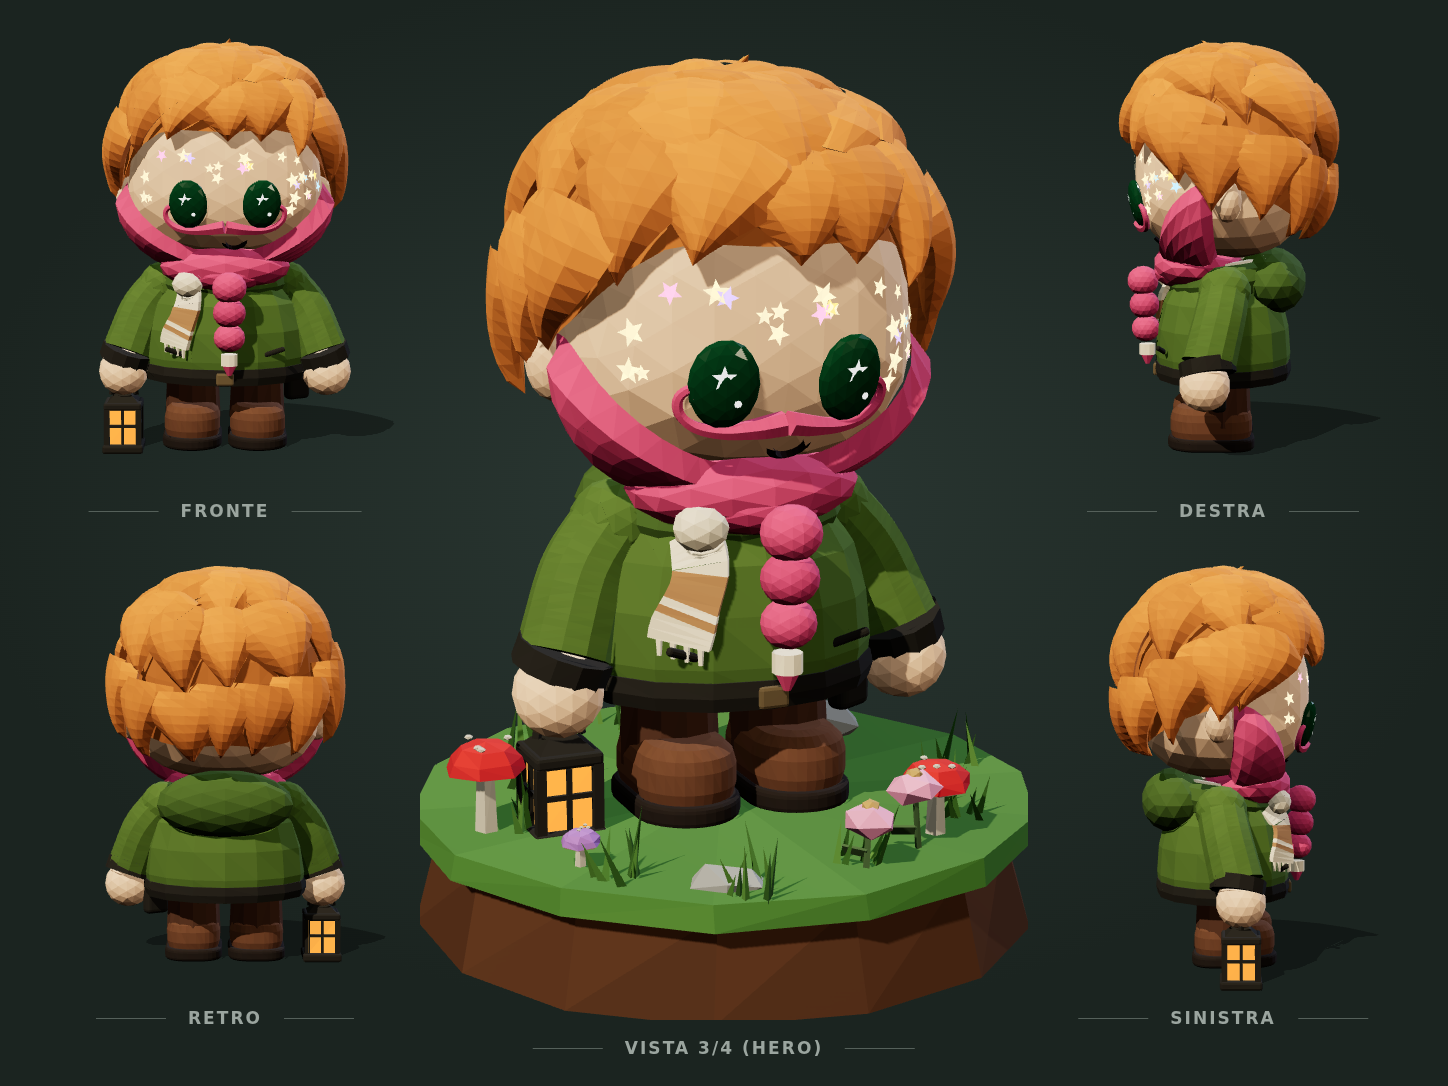
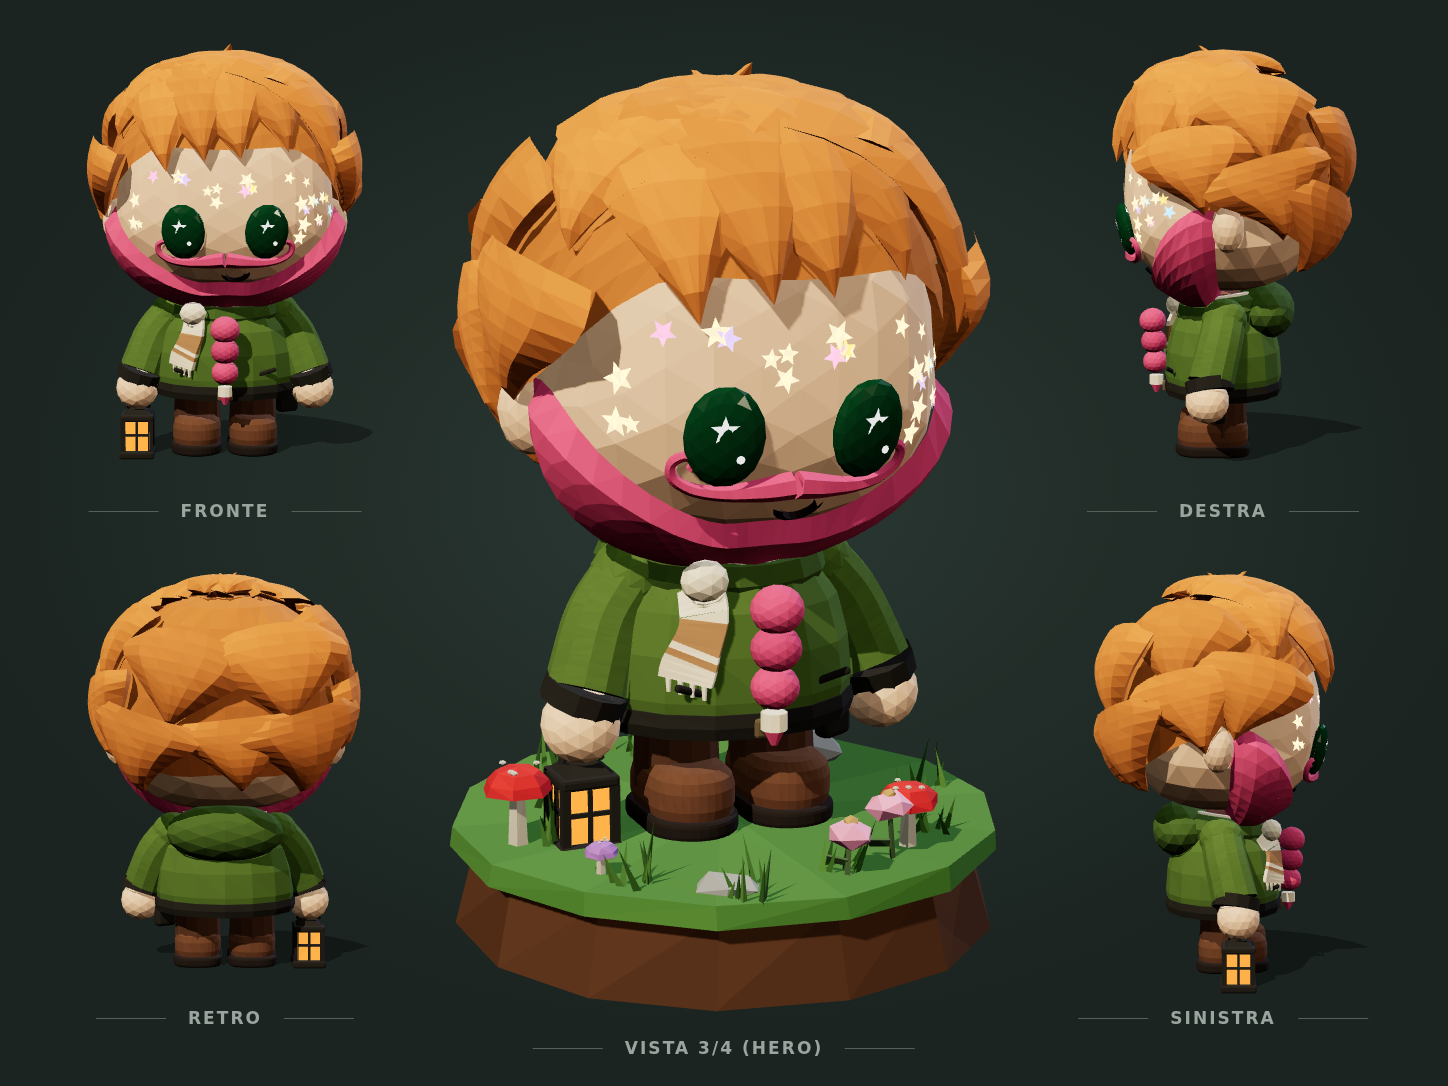
Style prototype v2, seventh pass: bigger head, one-piece beard, few messy locks
- head (with face, beard, moustache, hair) 30% bigger, scaled around the
  chin so it still rests on the collar
- beard as one continuous shell grown from the skin: crisp top edge, wraps
  cheeks and jaw, thickens forward and down under the chin, closed by a wall
  towards the neck (no stuck-on ellipsoids)
- hair: few big messy locks like the concept (fringe of five, two rings of
  short locks bending each its own way, crown locks opening from the whorl),
  same coverage as before
- braid hangs in front of the jacket right under the beard
- audit updated

Claude-Session: https://claude.ai/code/session_01U6u5RojYrwYjZd8sSRU7em

diff --git a/Prototype-3d/src/proto/custodeV2.ts b/Prototype-3d/src/proto/custodeV2.ts
@@ -35,6 +35,11 @@ function prng(seed: number) {
 }
 const O: LPOpts = { jitter: 0, vary: 0.04, ao: 0 };
 
+/** Scala della testa e traslazione che tiene fermo il mento (y ≈ 0,543). */
+const HEAD_S = 1.3;
+const CHIN_Y = 0.543;
+const HEAD_T = new THREE.Vector3(0, CHIN_Y - HEAD_S * CHIN_Y, 0);
+
 // ── Testa ───────────────────────────────────────────────────────────────
 // Non una sfera: un "superellissoide" (più pieno di una sfera, con la faccia
 // più piatta davanti) che si allarga un po' in basso sulle guance, come nel
@@ -234,35 +239,57 @@ function glitter(lp: LP) {
   }
 }
 
+/**
+ * Barba come un unico guscio continuo (niente forme appiccicate): parte dalla
+ * pelle con un bordo superiore netto (dalla bocca a davanti all'orecchio),
+ * avvolge guance e mandibola e sotto il mento si ispessisce spingendo in
+ * avanti e in basso. Superficie esterna + parete inferiore che la chiude.
+ */
 function beard(lp: LP) {
-  // come nel concept: un volume pieno a mezzaluna attorno alla parte bassa
-  // della faccia. Bordo superiore netto (sale dalla bocca fino davanti
-  // all'orecchio), spessore quasi costante, e sotto il mento una massa che
-  // sporge in avanti e in basso, oltre il profilo della testa.
-  sheet(lp, 30, 10,
-    (u, v) => [u * 84 * DEG, lerp(-88, beardTop(u * 84), v) * DEG],
-    (u, v) => {
-      const side = smooth(0, 0.1, 1 - Math.abs(u));
-      const top = smooth(0, 0.07, 1 - v); // bordo superiore netto
-      return side * top * (0.036 + 0.014 * (1 - v));
-    }, BEARD, { vary: 0.05 });
-  // massa del mento: ellissoide schiacciato che riempie sotto la mandibola
-  const { p: chin } = headAt(0, -62 * DEG);
-  lp.blob(0, chin.y - 0.035, chin.z - 0.05, 0.19, 0.075, 0.13, BEARD, { ...O, detail: 2 } as LPOpts);
-  lp.blob(0, chin.y - 0.06, chin.z - 0.02, 0.12, 0.05, 0.1, '#c94f75', { ...O, detail: 2 } as LPOpts);
-  // treccia: tre grani uguali, impilati dritti sotto il mento, un fermaglio
-  // color panna e una punta: semplice e leggibile come nel concept
-  // davanti alla giacca (prima restava dietro il nodo della sciarpa)
-  const top = new THREE.Vector3(0.012, chin.y - 0.085, 0.235);
+  const NU = 30, NV = 12;
+  const outer: THREE.Vector3[][] = [], inner: THREE.Vector3[][] = [], norms: THREE.Vector3[][] = [];
+  for (let i = 0; i <= NU; i++) {
+    outer.push([]); inner.push([]); norms.push([]);
+    const u = -1 + (2 * i) / NU, th = u * 86;
+    for (let j = 0; j <= NV; j++) {
+      const v = j / NV; // 0 sotto il mento, 1 bordo superiore
+      const { p, n } = headAt(th * DEG, lerp(-84, beardTop(th), v) * DEG);
+      const side = smooth(0, 0.12, 1 - Math.abs(u));
+      const center = 0.35 + 0.65 * Math.pow(1 - Math.abs(u), 1.4);
+      const low = Math.pow(1 - v, 2);
+      const t = side * smooth(0, 0.06, 1 - v) * (0.03 + 0.075 * low * center);
+      // sotto il mento la massa va anche in avanti, non solo lungo la normale
+      const dir = n.clone().add(new THREE.Vector3(0, -0.15, 0.55).multiplyScalar(low * center)).normalize();
+      inner[i].push(p.clone());
+      outer[i].push(p.clone().addScaledVector(dir, t));
+      norms[i].push(n);
+    }
+  }
+  const tr = new Tris();
+  for (let i = 0; i < NU; i++) for (let j = 0; j < NV; j++) tr.quad(outer[i][j], outer[i + 1][j], outer[i + 1][j + 1], outer[i][j + 1], norms[i][j]);
+  // parete inferiore: chiude il guscio tornando alla pelle sotto il mento
+  for (let i = 0; i < NU; i++) tr.quad(outer[i][0], outer[i + 1][0], inner[i + 1][0], inner[i][0], new THREE.Vector3(0, -1, 0.2));
+  lp.add(tr.geo(), BEARD, { ...O, vary: 0.05 });
+}
+
+/** Punto (coordinate della testa, prima della scala) da cui pende la treccia. */
+function braidAnchor(): THREE.Vector3 {
+  const { p, n } = headAt(0, -80 * DEG);
+  return p.addScaledVector(n, 0.07).add(new THREE.Vector3(0, -0.01, 0.06));
+}
+
+/** Treccia: tre grani uguali impilati, fermaglio color panna e punta. */
+function braid(lp: LP, top: THREE.Vector3) {
   const R0 = 0.046, STEPY = 0.07;
   for (let i = 0; i < 3; i++) {
     const r = R0 - i * 0.002;
-    lp.blob(top.x, top.y - i * STEPY, top.z - i * 0.004, r * 1.05, r * 0.95, r, i % 2 ? '#c94f75' : BEARD, { ...O, detail: 2 } as LPOpts);
+    lp.blob(top.x, top.y - 0.03 - i * STEPY, top.z - i * 0.004, r * 1.05, r * 0.95, r, i % 2 ? '#c94f75' : BEARD, { ...O, detail: 2 } as LPOpts);
   }
-  const ty = top.y - 3 * STEPY + 0.022, tz = top.z - 3 * 0.004;
+  const ty = top.y - 0.03 - 3 * STEPY + 0.022, tz = top.z - 3 * 0.004;
   lp.cyl(top.x, ty - 0.03, tz, 0.024, 0.024, 0.032, 10, SCARF, O);
   lp.cyl(top.x, ty - 0.058, tz, 0.006, 0.02, 0.028, 8, BEARD, O);
 }
+
 
 function moustache(lp: LP) {
   // grosso manubrio: dal centro sotto il naso fin oltre gli occhi, poi un ricciolo all'insù
@@ -271,7 +298,7 @@ function moustache(lp: LP) {
     [0.004, 0.626, 0.022], [0.06, 0.617, 0.02], [0.12, 0.612, 0.016], [0.168, 0.622, 0.013], [0.196, 0.646, 0.011],
     [0.2, 0.674, 0.0095], [0.182, 0.689, 0.0088], [0.165, 0.677, 0.008], [0.172, 0.660, 0.0075],
   ];
-  const path = raw.map(([x, y, r]) => [x * 0.8, 0.651 + (y - 0.626) * 0.8, r * 0.9] as [number, number, number]);
+  const path = raw.map(([x, y, r]) => [x * 0.8, 0.645 + (y - 0.626) * 0.62, r * 0.85] as [number, number, number]); // ricciolo più basso: non gira attorno all'occhio
   for (const s of [-1, 1]) {
     const pts = path.map(([x, y, r]) => { const at = headFront(s * x, y); return at.p.addScaledVector(at.n, r * 0.85); });
     lp.add(taperTube(pts, path.map(([, , r]) => r)), BEARD, { ...O, vary: 0.03 });
@@ -292,28 +319,38 @@ function hair(lp: LP) {
   sheet(lp, 36, 10, (u, v) => { const th = Math.PI + u * Math.PI; return [th, lerp(hairTip(th) + 3, 89.5, v) * DEG]; }, (u, v) => {
     const th = Math.PI + u * Math.PI;
     return capT(th, lerp(hairTip(th) + 3, 89.5, v));
-  }, tone(-0.11)); // più scura: tra una ciocca e l'altra si legge il solco
-  // quattro file a scaglie come prima; le ciocche hanno però una lunghezza
-  // massima, così dietro e ai lati non pendono più (prima arrivavano a 80°)
-  const back = (th: number) => smooth(50, 160, absDeg(th * DEG));
-  const MAXLEN = 40;
-  const rows = [
-    { n: 16, root: 46, tip: (th: number) => hairTip(th * DEG) - 2, w: 0.15 },
-    { n: 13, root: 62, tip: (th: number) => lerp(36, 4, back(th)), w: 0.16 },
-    { n: 10, root: 76, tip: (th: number) => lerp(54, 34, back(th)), w: 0.16 },
-    { n: 6, root: 88, tip: () => 68, w: 0.15 },
-  ];
-  rows.forEach((row, r) => {
-    for (let k = 0; k < row.n; k++) {
-      const th0 = (k + (r % 2) * 0.5) * (360 / row.n) + (rnd() - 0.5) * 8;
-      const tip = row.tip(th0) - rnd() * 6;
+  }, tone(-0.07)); // appena più scura: tra una ciocca e l'altra si legge il solco
+  // poche ciocche grandi e scompigliate (come nel concept): una frangia, due
+  // giri attorno (lati e nuca) con ciocche corte che arrivano dove serve, e
+  // qualche ciuffo in cima che punta in direzioni diverse
+  const surf = (th: number, ph: number) => capT(th * DEG, ph) * 0.78;
+  const LEN = 38;
+  const ring = (n: number, tipOf: (th: number) => number, w: number, phase: number, seed: number) => {
+    for (let k = 0; k < n; k++) {
+      const th0 = (k + phase) * (360 / n) + (rnd() - 0.5) * 14;
+      const front = absDeg(th0 * DEG) < 50;
+      if (front && seed === 0) continue; // davanti c'è la frangia
+      const tip = tipOf(th0) - rnd() * 7;
+      const swing = (rnd() - 0.5) * 22; // scompigliate: ognuna piega per conto suo
       lock(lp, {
-        th0, th1: th0 + (r % 2 ? 9 : -4) + (rnd() - 0.5) * 14, ph0: Math.min(row.root + (rnd() - 0.5) * 6, tip + MAXLEN), ph1: tip,
-        w: row.w * (0.8 + rnd() * 0.45), t: 0.058 + rnd() * 0.012, surface: (th: number, ph: number) => capT(th * DEG, ph) * 0.78, bulge: 0.018, lift: 0.01 + rnd() * 0.022,
-        col: tone([0.03, -0.02, 0.05, 0.01, -0.035][(k + r) % 5]),
+        th0, th1: th0 + swing, ph0: Math.min(92, tip + LEN + (rnd() - 0.5) * 8), ph1: tip,
+        w: w * (0.85 + rnd() * 0.3), t: 0.058 + rnd() * 0.012, surface: surf, bulge: 0.014, lift: 0.008 + rnd() * 0.018,
+        col: tone([0.03, -0.025, 0.05, 0.005, -0.04][(k + seed) % 5]),
       });
     }
-  });
+  };
+  ring(10, (th) => hairTip(th * DEG) - 2, 0.21, 0, 0);            // giro basso: lati e nuca
+  ring(8, (th) => hairTip(th * DEG) + 30, 0.22, 0.5, 1);         // giro alto
+  // frangia: cinque ciocche grandi che cadono sulla fronte, un po' di traverso
+  for (let k = 0; k < 5; k++) {
+    const th0 = -50 + k * 25 + (rnd() - 0.5) * 8;
+    lock(lp, { th0, th1: th0 + 10 + (rnd() - 0.5) * 16, ph0: 82, ph1: hairTip(th0 * DEG) - rnd() * 6, w: 0.22 * (0.9 + rnd() * 0.2), t: 0.058, surface: surf, bulge: 0.016, lift: 0.012 + rnd() * 0.016, col: tone([0.04, -0.01, 0.025, -0.03, 0.015][k]) });
+  }
+  // cima: ciocche che si aprono dal vortice in direzioni diverse
+  for (let k = 0; k < 7; k++) {
+    const th0 = k * 51 + (rnd() - 0.5) * 24;
+    lock(lp, { th0, th1: th0 + (rnd() - 0.5) * 40, ph0: 92, ph1: 62 - rnd() * 8, w: 0.2, t: 0.058, surface: surf, bulge: 0.016, lift: 0.02 + rnd() * 0.02, col: tone([0.045, 0.01, 0.03, -0.015, 0.02][k % 5]) });
+  }
   // ciuffetti dritti in cima, radicati nella calotta
   [[-20, 104], [10, 110], [35, 100], [190, 102]].forEach(([th, ph1], k) => {
     lock(lp, { th0: th, th1: th + 4, ph0: 84, ph1, w: 0.085, t: 0.03, base: 0.05, lift: 0.05 + k * 0.01, bulge: 0.008, col: tone(k % 2 ? 0.045 : 0.02) });
@@ -498,12 +535,23 @@ export interface CustodeV2 { root: THREE.Group; diorama: THREE.Group; lights: Ar
 
 export function buildCustodeV2(): CustodeV2 {
   const char = model((lp) => {
-    head(lp); glitter(lp); beard(lp); moustache(lp); hair(lp); body(lp); arm(lp, -1); arm(lp, 1);
+    // testa (con faccia, barba, baffi e capelli) più grande del 30%, scalata
+    // attorno al mento: resta appoggiata sul colletto
+    lp.push([0, HEAD_T.y, 0], 0, 0, 0, HEAD_S);
+    head(lp); glitter(lp); beard(lp); moustache(lp); hair(lp);
+    lp.pop();
+    // la treccia pende davanti alla giacca (prima finiva dietro il nodo della sciarpa)
+    const ba = braidAnchor().multiplyScalar(HEAD_S).add(HEAD_T);
+    braid(lp, ba.setZ(Math.max(ba.z, 0.24)).setY(ba.y + 0.025)); // attaccata subito sotto la barba
+    body(lp); arm(lp, -1); arm(lp, 1);
     lantern(lp, -0.296);
   }, 'proto:custode-v2');
   const root = new THREE.Group();
   root.add(instantiate(char, { castShadow: true }));
-  root.add(eyes());
+  const eyeGroup = eyes();
+  eyeGroup.scale.setScalar(HEAD_S);
+  eyeGroup.position.copy(HEAD_T);
+  root.add(eyeGroup);
   root.traverse((o) => { if (o instanceof THREE.Mesh) { o.castShadow = true; o.receiveShadow = true; } });
   const d = model(diorama, 'proto:zolla');
   const dio = instantiate(d, { castShadow: true });

diff --git a/Prototype-3d/src/proto/turnaround.ts b/Prototype-3d/src/proto/turnaround.ts
@@ -85,12 +85,12 @@ for (const p of panels) {
   camera.aspect = p.w / p.h;
   if (p.hero) {
     camera.fov = 26;
-    camera.position.set(0.1, 1.15, 3.4);
-    camera.lookAt(0, 0.46, 0);
+    camera.position.set(0.1, 1.3, 3.9);
+    camera.lookAt(0, 0.56, 0);
   } else {
     camera.fov = 22;
-    camera.position.set(0, 0.8, 3.55);
-    camera.lookAt(0, 0.55, 0);
+    camera.position.set(0, 0.95, 4.1);
+    camera.lookAt(0, 0.66, 0);
   }
   camera.updateProjectionMatrix();
   const vy = H - (p.y + p.h);

diff --git a/Prototype-3d/docs/audit-stile-custode-v2.md b/Prototype-3d/docs/audit-stile-custode-v2.md
@@ -58,6 +58,12 @@ Sesta passata:
 - **Stivali:** tomaia e suola hanno la stessa pianta e la tomaia nasce dentro la suola, così il bordo è continuo e la suola non sembra staccata.
 - **Sciarpa:** spostata di lato, per lasciare libera la treccia.
 
+Settima passata (cambio di metodo: meno forme sovrapposte):
+- **Testa:** più grande del 30% (con faccia, barba, baffi e capelli), scalata attorno al mento, così resta appoggiata sul colletto.
+- **Barba:** un unico guscio continuo che nasce dalla pelle, con il bordo superiore netto. Avvolge guance e mandibola e sotto il mento si ispessisce in avanti e in basso, chiuso da una parete verso il collo. Niente più ellissoidi appiccicati.
+- **Capelli:** poche ciocche grandi e scompigliate, come nel concept: una frangia di cinque, due giri attorno (lati e nuca) con ciocche corte che piegano ognuna per conto suo, e sette ciocche in cima che si aprono dal vortice. La copertura arriva allo stesso punto di prima.
+- **Treccia:** pende davanti alla giacca, subito sotto la barba.
+
 ## Prestazioni su telefono (app Capacitor)
 
 Con Capacitor il gioco gira nel WebView del sistema (WKWebView su iOS, WebView di Chrome su Android): le prestazioni sono quelle del browser del telefono. Che il gioco funzioni offline non cambia nulla, perché il lavoro lo fanno GPU e CPU del dispositivo.
@@ -103,7 +109,7 @@ Il lavoro vero è **rifare le opzioni di personalizzazione** nel nuovo stile, ci
 |---|---|---|---|
 | Custode attuale, look base | 7.450 | 7 | — |
 | Custode attuale, look ricco (ricci lunghi, treccia, manubrio, monocolo, brillantini) | 17.370 | 9 | ~126 ms |
-| Prototipo v2 (completo, con lanterna) | 23.300 | 8 | ~45 ms |
+| Prototipo v2 (completo, con lanterna) | 18.800 | 8 | ~40 ms |
 
 Il v2 costa più o meno quanto un look ricco di oggi, ed è più veloce da generare perché la testa è un ellissoide. Diviso nelle parti del rig resterebbe a circa 8–10 draw call. Per il solo Custode non ci sono problemi di prestazioni.
 
